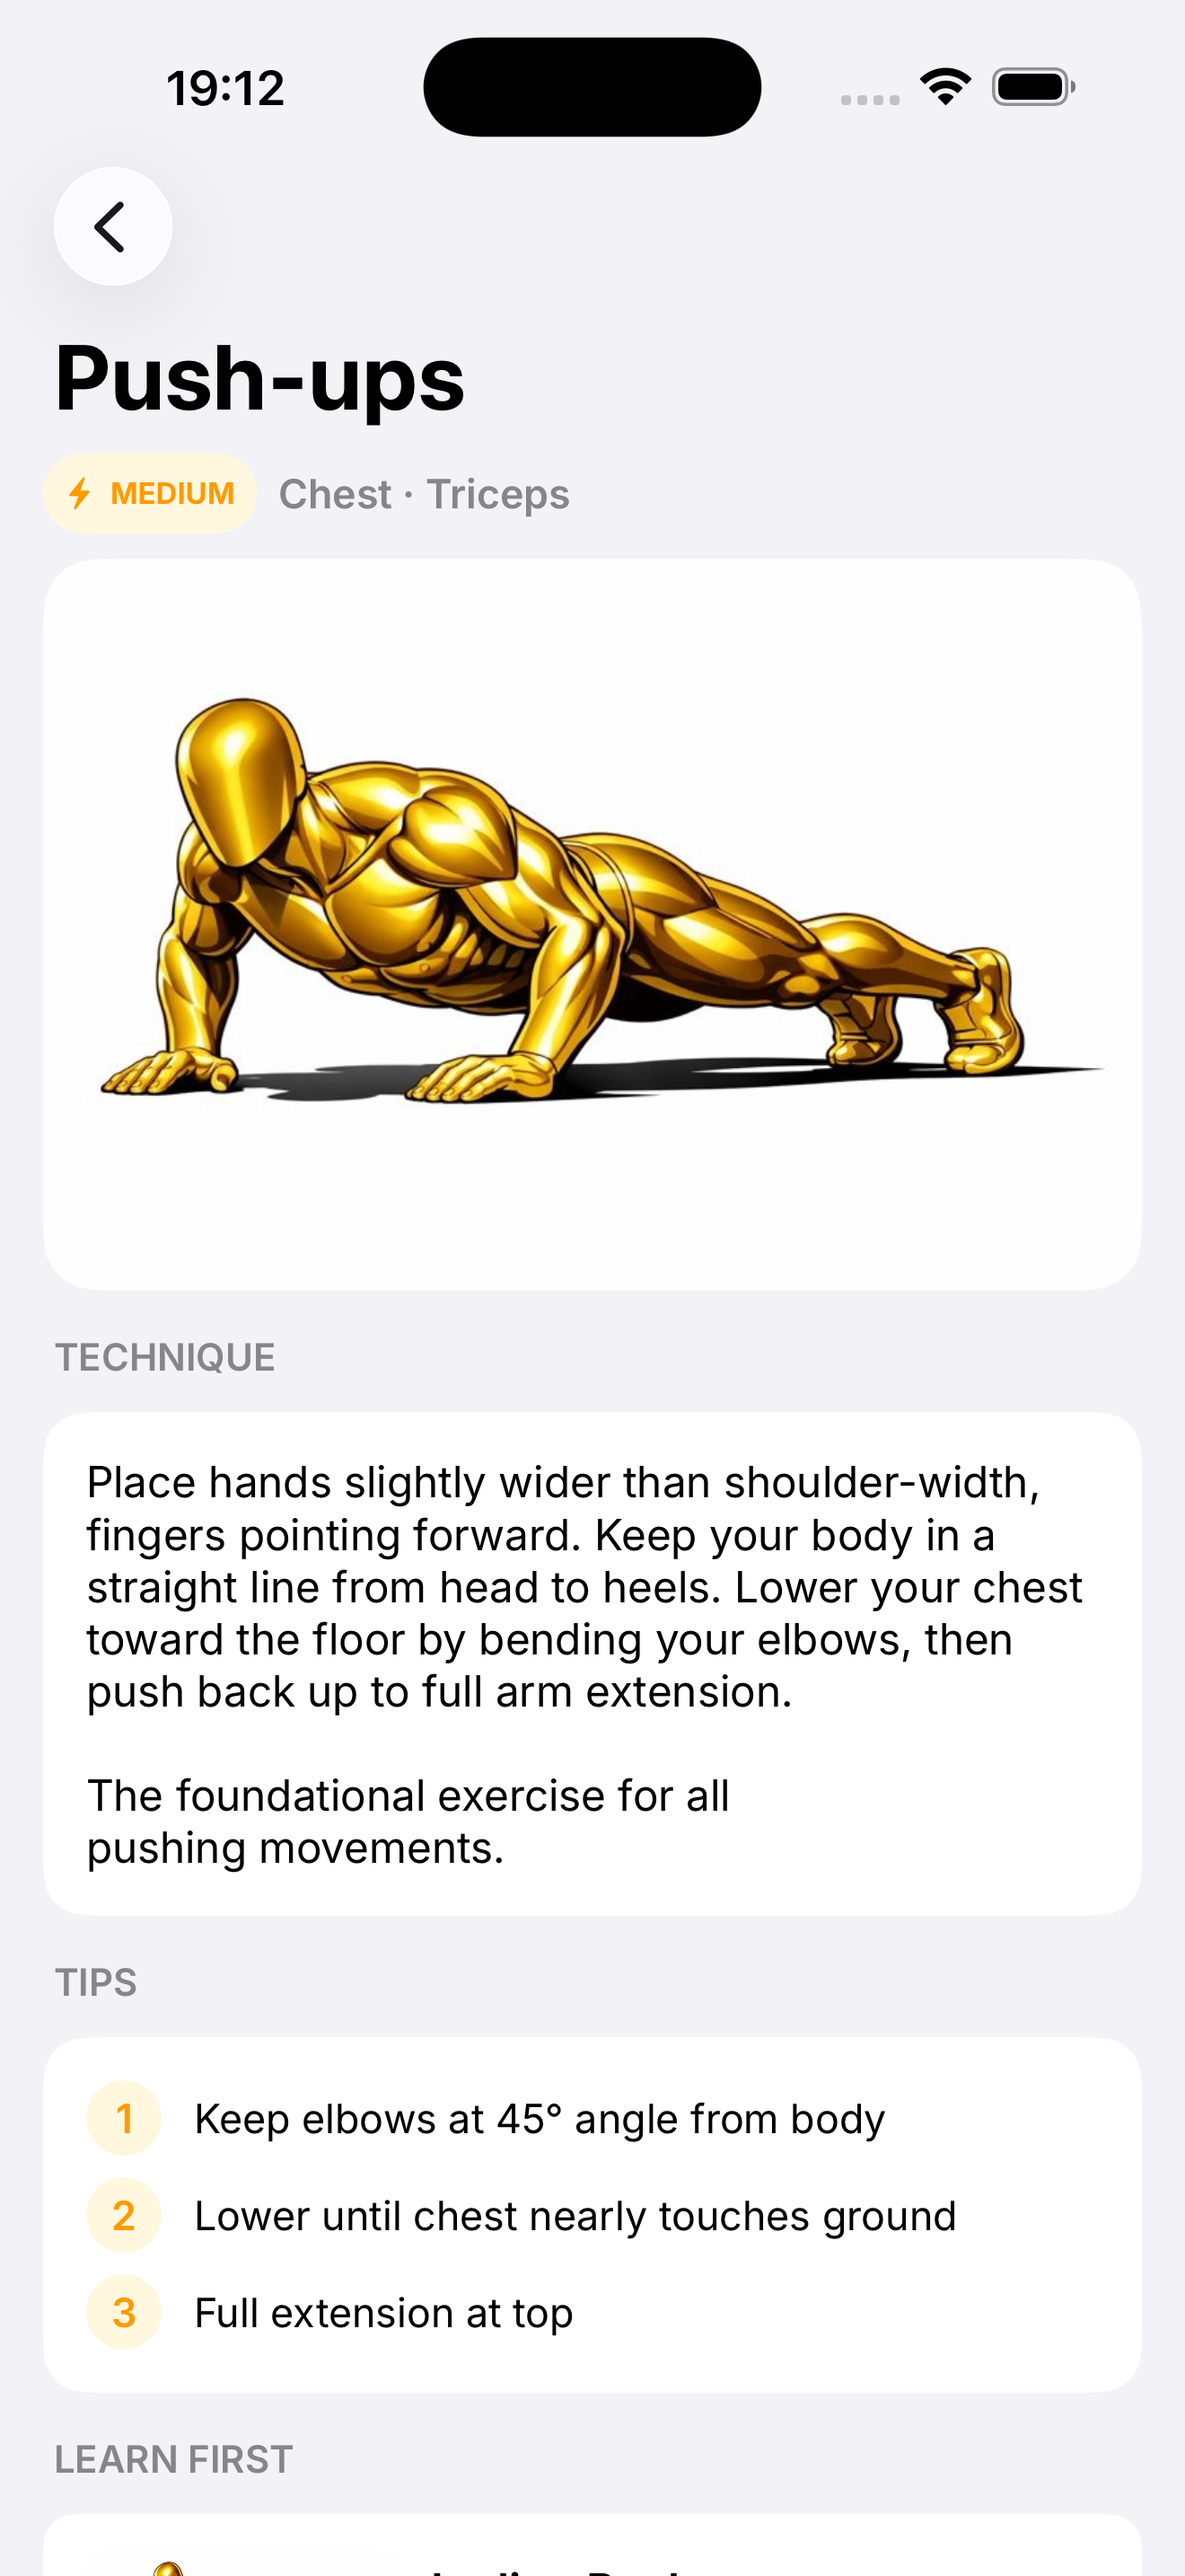
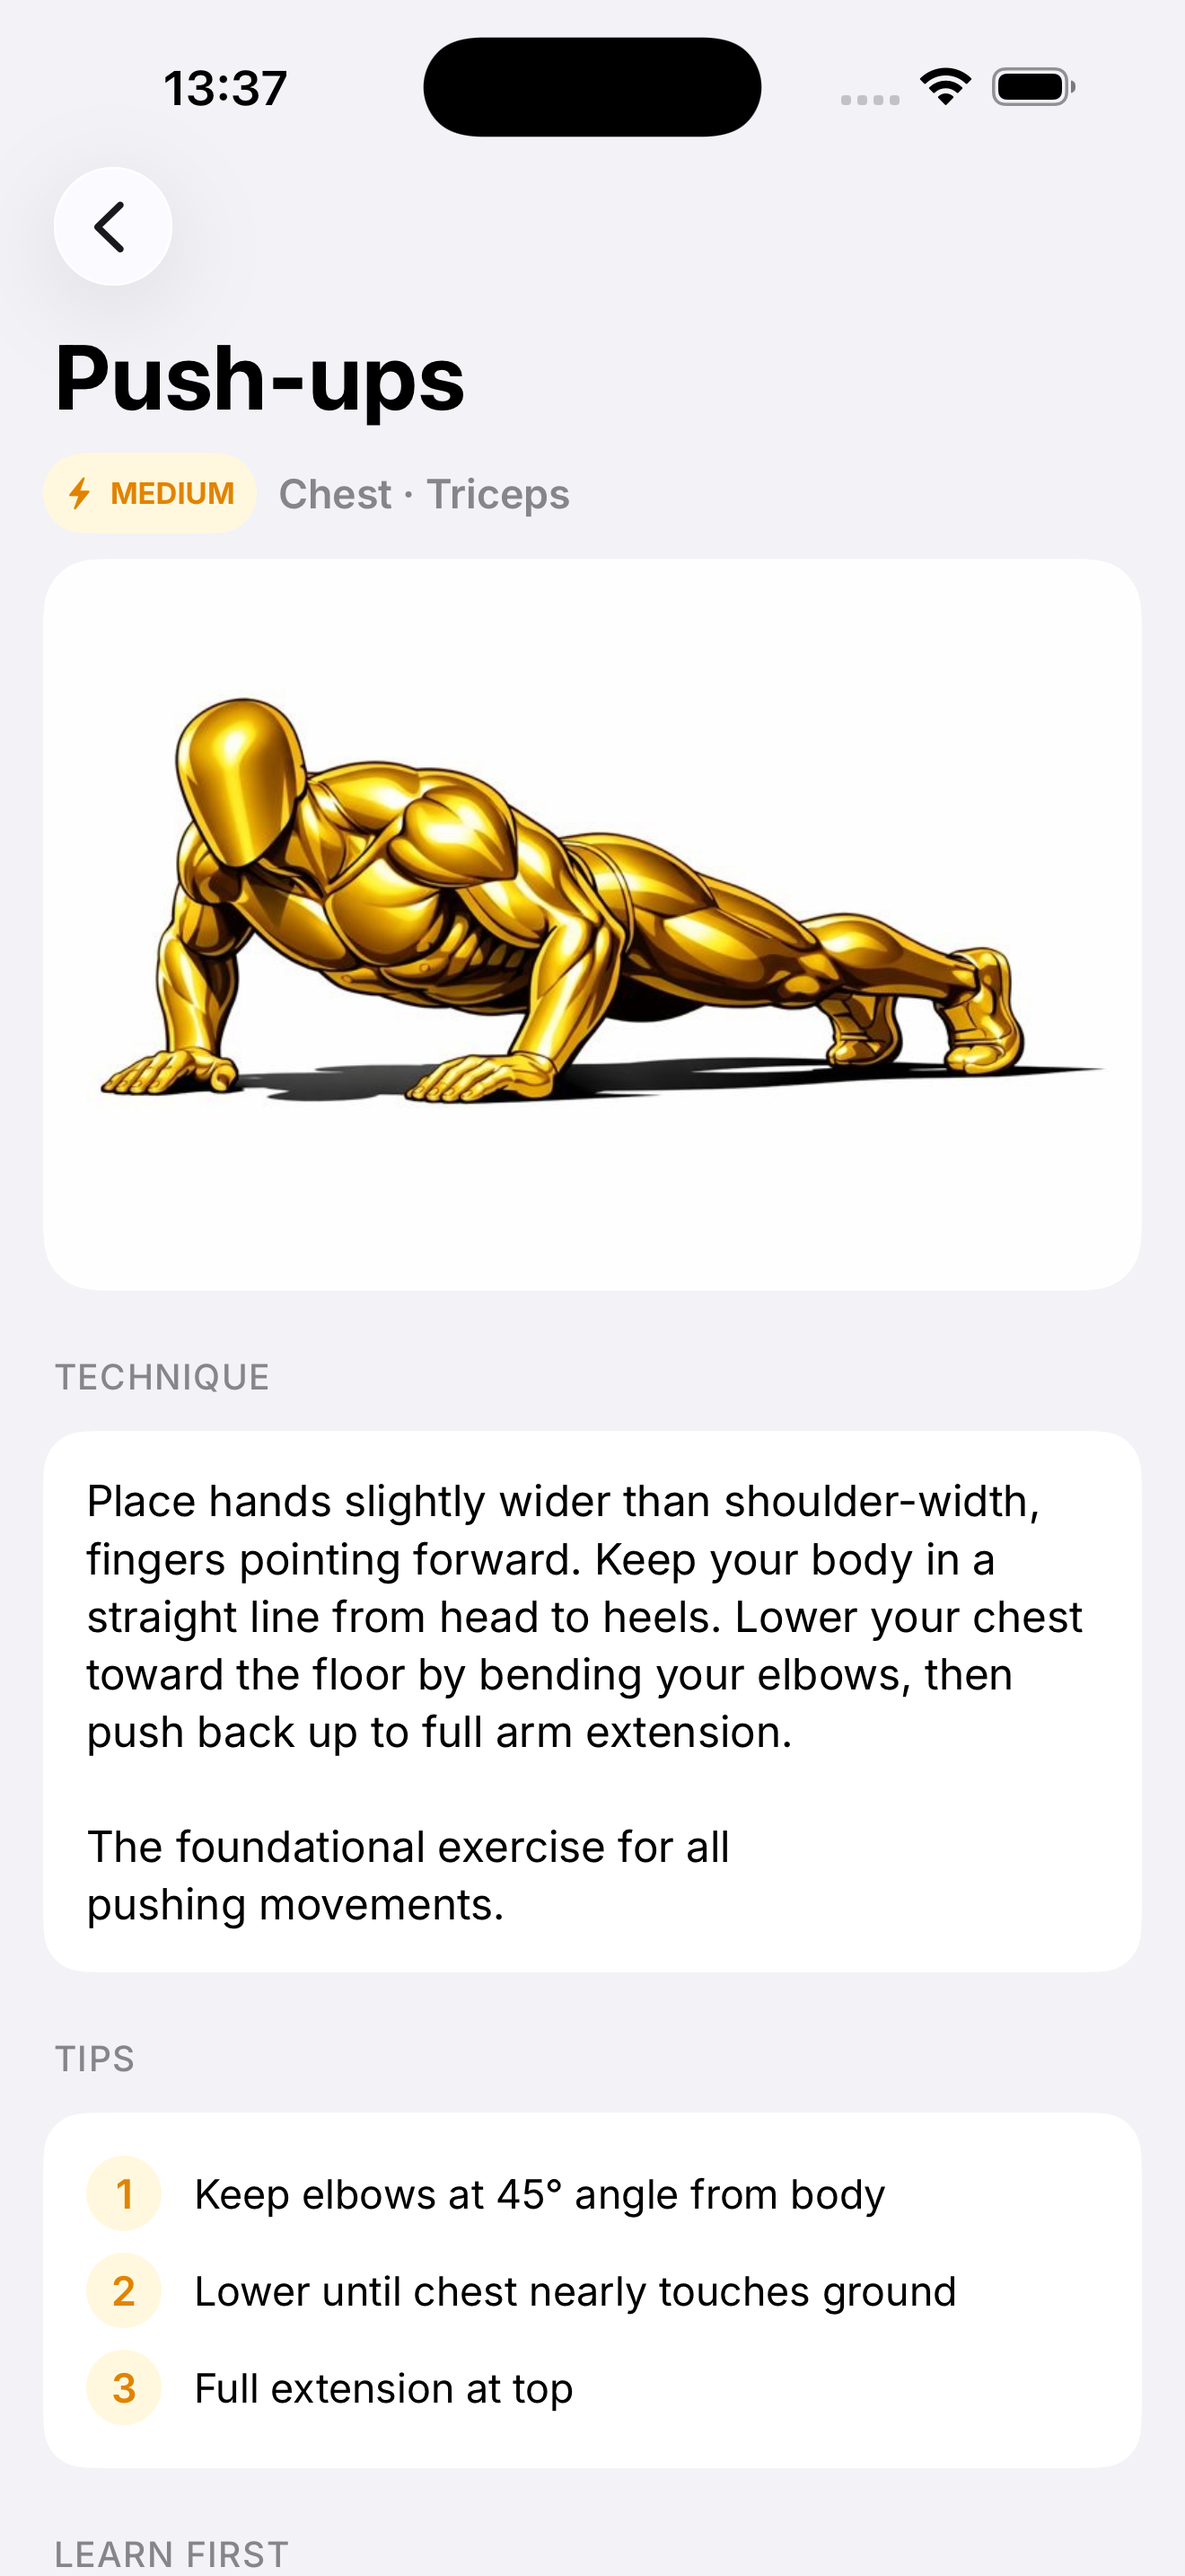
Updated email and contents

Changed region(s): [[0.0311, 0.4965, 0.9008, 1.0], [0.0932, 0.1862, 0.1864, 0.2172], [0.1553, 0.031, 0.2174, 0.0621]]

diff --git a/index.html b/index.html
@@ -940,7 +940,7 @@
     <section class="cta" id="download">
         <div class="container">
             <h2>Start your calisthenics journey today</h2>
-            <p>Push-ups and Dips are free forever. Try them now.</p>
+            <p>Push-ups, Dips and Legs are free forever. Try them now.</p>
             <a href="https://apps.apple.com/app/id6758521484" class="btn-primary">
                 <svg viewBox="0 0 24 24" fill="currentColor" width="24" height="24">
                     <path d="M18.71 19.5c-.83 1.24-1.71 2.45-3.05 2.47-1.34.03-1.77-.79-3.29-.79-1.53 0-2 .77-3.27.82-1.31.05-2.3-1.32-3.14-2.53C4.25 17 2.94 12.45 4.7 9.39c.87-1.52 2.43-2.48 4.12-2.51 1.28-.02 2.5.87 3.29.87.78 0 2.26-1.07 3.81-.91.65.03 2.47.26 3.64 1.98-.09.06-2.17 1.28-2.15 3.81.03 3.02 2.65 4.03 2.68 4.04-.03.07-.42 1.44-1.38 2.83M13 3.5c.73-.83 1.94-1.46 2.94-1.5.13 1.17-.34 2.35-1.04 3.19-.69.85-1.83 1.51-2.95 1.42-.15-1.15.41-2.35 1.05-3.11z"/>
@@ -957,7 +957,7 @@
             <ul class="footer-links">
                 <li><a href="support.html">Support</a></li>
                 <li><a href="privacy.html">Privacy Policy</a></li>
-                <li><a href="mailto:support@caliscool.app">Contact</a></li>
+                <li><a href="mailto:joamaferapps@gmail.com">Contact</a></li>
             </ul>
             <p class="copyright">&copy; 2026 Caliscool. All rights reserved.</p>
         </div>

diff --git a/support.html b/support.html
@@ -351,11 +351,11 @@
             <div class="contact-card">
                 <h2>Need Help?</h2>
                 <p>We're here to help you with any questions about Caliscool.</p>
-                <a href="mailto:support@caliscool.app" class="email-button">
+                <a href="mailto:joamaferapps@gmail.com" class="email-button">
                     <svg xmlns="http://www.w3.org/2000/svg" fill="none" viewBox="0 0 24 24" stroke="currentColor" stroke-width="2">
                         <path stroke-linecap="round" stroke-linejoin="round" d="M3 8l7.89 5.26a2 2 0 002.22 0L21 8M5 19h14a2 2 0 002-2V7a2 2 0 00-2-2H5a2 2 0 00-2 2v10a2 2 0 002 2z" />
                     </svg>
-                    support@caliscool.app
+                    joamaferapps@gmail.com
                 </a>
                 <div class="response-time">
                     <svg xmlns="http://www.w3.org/2000/svg" fill="none" viewBox="0 0 24 24" stroke="currentColor" stroke-width="2">
@@ -553,7 +553,7 @@
     <footer>
         <div class="footer-links">
             <a href="privacy.html">Privacy Policy</a>
-            <a href="mailto:support@caliscool.app">Contact</a>
+            <a href="mailto:joamaferapps@gmail.com">Contact</a>
         </div>
         <p>&copy; 2026 Caliscool. All rights reserved.</p>
     </footer>

diff --git a/privacy-policy.html b/privacy-policy.html
@@ -210,7 +210,7 @@
 
                 <h2>Contact Us</h2>
                 <p>If you have any questions about this Privacy Policy or our practices, please contact us at:</p>
-                <p><a href="mailto:support@caliscool.app">support@caliscool.app</a></p>
+                <p><a href="mailto:joamaferapps@gmail.com">joamaferapps@gmail.com</a></p>
 
                 <div class="highlight-box">
                     <p>Your workout is your business. We just help you get stronger.</p>
@@ -222,7 +222,7 @@
     <footer>
         <div class="footer-links">
             <a href="support.html">Support</a>
-            <a href="mailto:support@caliscool.app">Contact</a>
+            <a href="mailto:joamaferapps@gmail.com">Contact</a>
         </div>
         <p>&copy; 2026 Caliscool. All rights reserved.</p>
     </footer>
